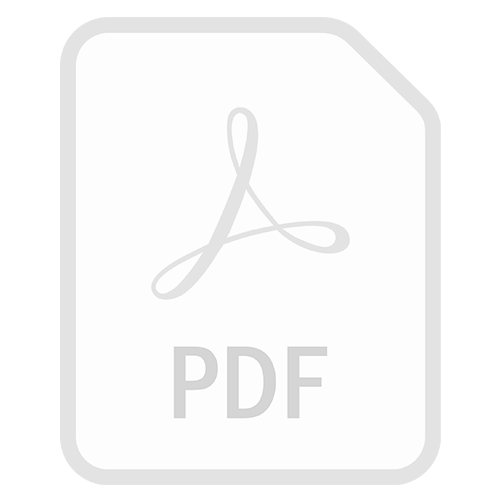
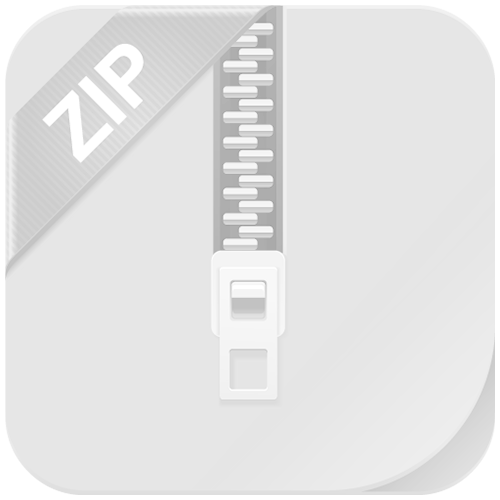
Se agrego el historial de puntos, boton crear venta en editar venta, se oculto imagen requerido, se cambio imagen de zip.

diff --git a/resources/views/livewire/odontologo/puntos-odontologo/puntos-odontologo-todo-livewire.blade.php b/resources/views/livewire/odontologo/puntos-odontologo/puntos-odontologo-todo-livewire.blade.php
@@ -56,47 +56,106 @@
             </div>
         </div>
 
+        <!--LISTA VENTAS-->
+        <div class="contenedor_panel_producto_admin">
+            <!--CONTENEDOR SUBTITULO-->
+            <div class="contenedor_subtitulo_admin">
+                <h3>Sus radiografías: ({{ $cantidad_ventas_canjeos }})</h3>
+            </div>
+            <!--CONTENEDOR BOTONES-->
+            <div class="contenedor_botones_admin">
+                <button>
+                    PDF <i class="fa-solid fa-file-pdf"></i>
+                </button>
+                <button>
+                    EXCEL <i class="fa-regular fa-file-excel"></i>
+                </button>
+                <button onClick="window.scrollTo(0, document.body.scrollHeight);">
+                    Abajo <i class="fa-solid fa-arrow-down"></i>
+                </button>
+            </div>
 
-
-        <!--TABLA-->
-        <div class="tabla_administrador py-4 overflow-x-auto">
-            <div class="inline-block min-w-full overflow-hidden">
-                <table class="min-w-full leading-normal">
-                    <thead>
-                        <tr>
-                            <th>
-                                N° Orden</th>
-                            <th>
-                                Estado</th>
-                            <th>
-                                Puntos</th>
-                            <th>
-                                Registro</th>
-                            <th>
-                                Ver</th>
-                        </tr>
-                    </thead>
-                    <tbody>
-                        @foreach ($ventas_canjeos as $registro)
+            <!--TABLA-->
+            <div class="tabla_administrador py-4 overflow-x-auto">
+                <div class="inline-block min-w-full overflow-hidden">
+                    <table class="min-w-full leading-normal">
+                        <thead>
                             <tr>
-                                <td>{{ $registro instanceof App\Models\Venta ? $registro->id : '-' }}</td>
-                                <td>{{ $registro instanceof App\Models\Canjeo ? $registro->id : '-' }}</td>
+                                <th>
+                                    N° Orden</th>
+                                <th>
+                                    Tipo</th>
+                                <th>
+                                    Estado</th>
+                                <th>
+                                    Puntos</th>
+                                <th>
+                                    Registro</th>
+                                <th>
+                                    Ver</th>
                             </tr>
-                        @endforeach
-                    </tbody>
-                    <tfoot>
-                        <tr style="text-align: center;">
-                            <td>Puntos de bienvenida</td>
-                            <td>-</td>
-                            <td>{{ $odontologo->puntos_bienvenida }}</td>
-                            <td>{{ $odontologo->created_at->format('d/m/Y') }}</td>
-                            <td>-</td>
-                        </tr>
-                    </tfoot>
-                </table>
+                        </thead>
+                        <tbody>
+                            @if ($cantidad_ventas_canjeos > 0)
+                                @foreach (json_decode($ventas_canjeos, true) as $venta_canjeo)
+                                    <tr style="text-align: center;">
+                                        <td>
+                                            {{ $venta_canjeo['id'] }}
+                                        </td>
+                                        <td>
+                                            @if (array_key_exists('total_puntos', $venta_canjeo))
+                                                Canjeo
+                                            @else
+                                                Venta
+                                            @endif
+                                        </td>
+                                        <td>
+                                            <span class="px-2 inline-flex text-xs leading-5 font-semibold rounded-full"
+                                                style="background-color: rgb(13, 235, 87);">
+                                                Pagado
+                                            </span>
+                                        </td>
+                                        <td>
+                                            @if (array_key_exists('total_puntos', $venta_canjeo))
+                                                -{{ $venta_canjeo['puntos_usados'] }}
+                                            @else
+                                                +{{ $venta_canjeo['puntos_ganados'] }}
+                                            @endif
+                                        </td>
+                                        <td>
+                                            {{ date('d/m/Y H:i:s', strtotime($venta_canjeo['created_at'])) }}
+                                        </td>
+                                        <td>
+                                            @if (array_key_exists('total_puntos', $venta_canjeo))
+                                                <a style="color: #009eff;"
+                                                    href="{{ route('odontologo.canjeo.odontologo.informacion', $venta_canjeo['id']) }}">
+                                                    <i class="fa-solid fa-eye"></i>
+                                                </a>
+                                            @else
+                                                <a style="color: #009eff;"
+                                                    href="{{ route('odontologo.venta.odontologo.informacion', $venta_canjeo['id']) }}">
+                                                    <i class="fa-solid fa-eye"></i>
+                                                </a>
+                                            @endif
+                                        </td>
+                                    </tr>
+                                @endforeach
+                            @endif
+                        </tbody>
+                        <tfoot>
+                            <tr style="text-align: center;">
+                                <td>-</td>
+                                <td>Bienvenida</td>
+                                <td>-</td>
+                                <td>+{{ $odontologo->puntos_bienvenida }}</td>
+                                <td>{{ $odontologo->created_at->format('d/m/Y') }}</td>
+                                <td>-</td>
+                            </tr>
+                        </tfoot>
+                    </table>
+                </div>
             </div>
         </div>
-
 
     </div>
 

diff --git a/resources/views/livewire/encargado/venta-sede/venta-sede-editar-livewire.blade.php b/resources/views/livewire/encargado/venta-sede/venta-sede-editar-livewire.blade.php
@@ -16,6 +16,8 @@
             <button wire:click="$emit('eliminarVentaModal')">
                 Eliminar venta <i class="fa-solid fa-trash-can"></i>
             </button>
+            <a href="{{ route('encargado.venta.sede.crear') }}">
+                Nueva venta <i class="fa-solid fa-square-plus"></i></a>
         </div>
     </div>
 
@@ -46,11 +48,11 @@
                         <div class="contenedor_elemento_item">
                             <p class="estilo_nombre_input">Odontólogos: <span
                                     class="campo_obligatorio">(Obligatorio)</span></p>
-                            <div x-data="{ open: false }" class="relative" >
+                            <div x-data="{ open: false }" class="relative">
                                 <input type="text" wire:model="buscarOdontologo" placeholder="Buscar odontólogo..."
                                     x-on:click.prevent="open = !open" x-on:keydown.escape="open = false">
-                                <div x-cloak x-show="open" class="select_contenedor_buscador" x-on:click.away="open = false"
-                                    x-init="document.addEventListener('click', function(event) { if (!event.target.closest('.relative')) { open = false; } })">
+                                <div x-cloak x-show="open" class="select_contenedor_buscador"
+                                    x-on:click.away="open = false" x-init="document.addEventListener('click', function(event) { if (!event.target.closest('.relative')) { open = false; } })">
                                     <div class="select_buscador_item_no_seleccionado">Seleccione un odontólogo</div>
                                     @foreach ($odontologos as $key => $odontologo)
                                         @if (strpos(strtolower($odontologo->nombre . ' ' . $odontologo->apellido), strtolower($buscarOdontologo)) !== false ||
@@ -58,7 +60,7 @@
                                             <div wire:click="$set('odontologo_id', {{ $odontologo->id }}); open = false;"
                                                 x-on:click="open = false"
                                                 class="select_buscador_item @if ($key == count($odontologos) - 1) border-b-0 @endif">
-                                                {{ $odontologo->nombre . ' '.  $odontologo->apellido  }}
+                                                {{ $odontologo->nombre . ' ' . $odontologo->apellido }}
                                             </div>
                                         @endif
                                     @endforeach

diff --git a/app/Http/Livewire/Odontologo/PuntosOdontologo/PuntosOdontologoTodoLivewire.php b/app/Http/Livewire/Odontologo/PuntosOdontologo/PuntosOdontologoTodoLivewire.php
@@ -2,9 +2,9 @@
 
 namespace App\Http\Livewire\Odontologo\PuntosOdontologo;
 
+use App\Models\Canjeo;
 use App\Models\Venta;
 use Illuminate\Support\Facades\Auth;
-use Illuminate\Support\Facades\Bus;
 use Livewire\Component;
 
 class PuntosOdontologoTodoLivewire extends Component
@@ -21,33 +21,35 @@ class PuntosOdontologoTodoLivewire extends Component
 
     public $ventas_canjeos;
 
+    public $cantidad_ventas_canjeos = 0;
+
     public function mount()
     {
         $odontologo = Auth::user()->odontologo;
         $this->odontologo = $odontologo;
 
-        $this->ventas = $odontologo->ventas()->orderBy('created_at', 'desc')->get();
+        $this->ventas = $odontologo->ventas()->where('estado', Venta::PAGADO)->orderBy('created_at', 'desc')->get();
 
         $this->ventasPagadas = $this->ventas->filter(function ($venta) {
             return $venta->estado == Venta::PAGADO;
         })->sum('puntos_ganados');
 
-        $this->canjeos = $odontologo->canjeos()->orderBy('created_at', 'desc')->get();
+        $this->canjeos = $odontologo->canjeos()->where('estado', Canjeo::APLICADO)->orderBy('created_at', 'desc')->get();
 
         $this->canjeosPagadas = $this->canjeos->filter(function ($canjeo) {
-            return $canjeo->estado == Venta::PAGADO;
+            return $canjeo->estado == Canjeo::APLICADO;
         })->sum('total_puntos');
 
-        $imagenesVentas = collect();
+        $this->cantidad_ventas_canjeos = $this->canjeos->count() + $this->ventas->count();
+
+        $this->ventas_canjeos = $this->ventas->merge($this->canjeos)->sortByDesc('created_at')->toJson();
+        /*$imagenesVentas = collect();
         foreach ($this->ventas as $venta) {
             $imagenesVentas = $imagenesVentas->merge($venta->imagenes);
         }
 
-        $this->imagenesTodos = $imagenesVentas;
+        $this->imagenesTodos = $imagenesVentas;*/
 
-        $this->ventas_canjeos = $this->ventas->merge($this->canjeos)->sortByDesc('created_at')->toJson() ;
-
-        //dd($this->ventas_canjeos->toJson() );
     }
 
     public function render()

diff --git a/app/Http/Livewire/Encargado/VentaSede/VentaSedeEditarLivewire.php b/app/Http/Livewire/Encargado/VentaSede/VentaSedeEditarLivewire.php
@@ -238,7 +238,7 @@ class VentaSedeEditarLivewire extends Component
         $rules['paciente_id'] = 'required';
         $rules['venta_detalles'] = 'required';
 
-        if ($this->venta->imagenes->count()) {
+        //if ($this->venta->imagenes->count()) {
             $this->validate($rules);
 
 
@@ -248,9 +248,9 @@ class VentaSedeEditarLivewire extends Component
             $this->venta->update();
 
             $this->emit('mensajeActualizado', "Actualizado.");
-        } else {
-            $this->emit('mensajeError', "Falta subir imagen.");
-        }
+        //} else {
+        //    $this->emit('mensajeError', "Falta subir imagen.");
+        //}
     }
 
     public function actualizarPuntosYTotalVenta()

diff --git a/resources/views/livewire/encargado/canjeo-sede/canjeo-sede-editar-livewire.blade.php b/resources/views/livewire/encargado/canjeo-sede/canjeo-sede-editar-livewire.blade.php
@@ -16,6 +16,8 @@
             <button wire:click="$emit('eliminarCanjeoModal')">
                 Eliminar canjeo <i class="fa-solid fa-trash-can"></i>
             </button>
+            <a href="{{ route('encargado.canjeo.sede.crear') }}">
+                Nuevo canjeo <i class="fa-solid fa-square-plus"></i></a>
         </div>
     </div>
 

diff --git a/app/Http/Livewire/Encargado/VentaSede/VentaSedeCrearLivewire.php b/app/Http/Livewire/Encargado/VentaSede/VentaSedeCrearLivewire.php
@@ -237,7 +237,7 @@ class VentaSedeCrearLivewire extends Component
 
         $rules['sede_id'] = 'required';
         $rules['paciente_id'] = 'required';
-        $rules['imagenes'] = 'required';
+        //$rules['imagenes'] = 'required';
         $rules['carrito'] = 'required';
 
         if ($this->odontologo_id || $this->clinica_id) {
